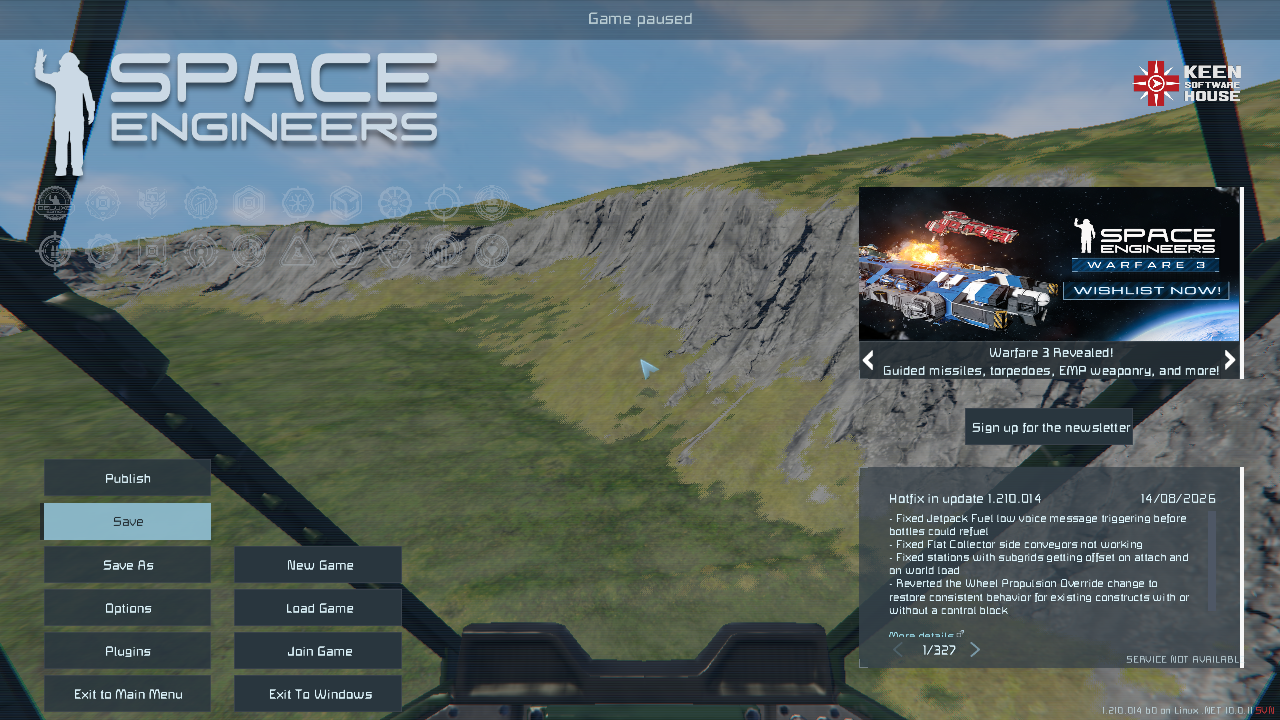
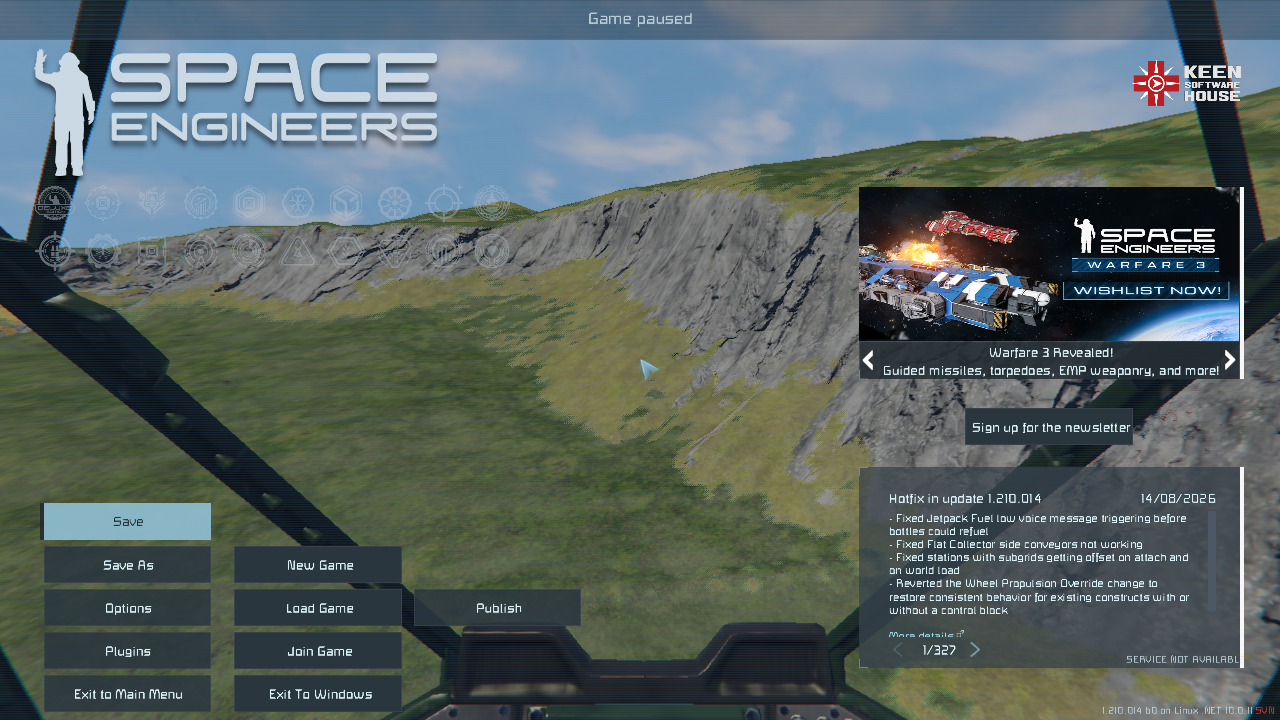
fix: anchor Publish to Load Game in both menus

diff --git a/ClientPlugin/Patches/MainMenuPatch.cs b/ClientPlugin/Patches/MainMenuPatch.cs
@@ -5,69 +5,49 @@ using ClientPlugin.GUI;
 using HarmonyLib;
 using Sandbox.Graphics.GUI;
 using SpaceEngineers.Game.GUI;
+using VRage;
 using VRage.Game;
 using VRageMath;
 
 namespace ClientPlugin.Patches
 {
-    // Adds a Publish button beside Load Game in the main menu and above Save in the in-game menu,
-    // without moving any of the vanilla buttons
     // ReSharper disable once UnusedType.Global
     [HarmonyPatch(typeof(MyGuiScreenMainMenu))]
     public static class MainMenuPatch
     {
-        // Publishing used to be reached through the Load Game screen
+        // Wait until the menu and other plugins' CreateInGameMenu postfixes have added their buttons.
         // ReSharper disable once UnusedMember.Local
         [HarmonyPostfix]
-        [HarmonyPatch("CreateMainMenu")]
-        private static void CreateMainMenuPostfix(MyGuiScreenMainMenu __instance)
+        [HarmonyPatch("RecreateControls")]
+        private static void RecreateControlsPostfix(MyGuiScreenMainMenu __instance)
         {
-            AddPublishButton(__instance, "LoadWorld", above: false);
-        }
-
-        // ReSharper disable once UnusedMember.Local
-        [HarmonyPostfix]
-        [HarmonyPatch("CreateInGameMenu")]
-        private static void CreateInGameMenuPostfix(MyGuiScreenMainMenu __instance)
-        {
-            AddPublishButton(__instance, "SaveWorld", above: true);
-        }
-
-        // The horizontal gap is the same as the vertical one between the menu buttons
-        private static void AddPublishButton(
-            MyGuiScreenMainMenu screen,
-            string buttonName,
-            bool above
-        )
-        {
-            var neighbor = screen
-                .Controls.OfType<MyGuiControlButton>()
-                .FirstOrDefault(button => button.Name == buttonName);
+            var buttons = __instance.Controls.OfType<MyGuiControlButton>().ToArray();
+            var loadGameText = MyTexts.GetString(MyCommonTexts.ScreenMenuButtonLoadGame);
+            var neighbor =
+                buttons.FirstOrDefault(button =>
+                    button.Name == "LoadWorld" || button.Text == loadGameText
+                ) ?? buttons.FirstOrDefault(button => button.Name == "Options");
             if (neighbor == null)
                 return;
 
             var gap = Math.Abs(MyGuiConstants.MENU_BUTTONS_POSITION_DELTA.Y) - neighbor.Size.Y;
-            // The column beside the pause menu is used by In Game World Loading.
-            var offset = above
-                ? -MyGuiConstants.MENU_BUTTONS_POSITION_DELTA
-                : new Vector2(neighbor.Size.X + gap, 0f);
-            screen.Controls.Add(
-                new MyGuiControlButton(
-                    neighbor.Position + offset,
-                    MyGuiControlButtonStyleEnum.StripeLeft,
-                    originAlign: neighbor.OriginAlign,
-                    text: new StringBuilder("Publish"),
-                    toolTip: "Publish local scripts and mods to the Workshop (ScriptDev)",
-                    onButtonClick: _ => MyGuiSandbox.AddScreen(new PublishDialog())
-                )
-                {
-                    Name = "ScriptDevPublish",
-                    BorderEnabled = false,
-                    BorderSize = 0,
-                    BorderHighlightEnabled = false,
-                    BorderColor = Vector4.Zero,
-                }
-            );
+            var publish = new MyGuiControlButton(
+                neighbor.Position,
+                MyGuiControlButtonStyleEnum.StripeLeft,
+                originAlign: neighbor.OriginAlign,
+                text: new StringBuilder("Publish"),
+                toolTip: "Publish local scripts and mods to the Workshop (ScriptDev)",
+                onButtonClick: _ => MyGuiSandbox.AddScreen(new PublishDialog())
+            )
+            {
+                Name = "ScriptDevPublish",
+                BorderEnabled = false,
+                BorderSize = 0,
+                BorderHighlightEnabled = false,
+                BorderColor = Vector4.Zero,
+            };
+            publish.Position += new Vector2((neighbor.Size.X + publish.Size.X) / 2f + gap, 0f);
+            __instance.Controls.Add(publish);
         }
     }
 }

diff --git a/tests/MenuLayout/Program.cs b/tests/MenuLayout/Program.cs
@@ -1,13 +1,16 @@
 using System.Reflection;
+using System.Text;
 using ClientPlugin.Patches;
 using Sandbox.Graphics.GUI;
 using SpaceEngineers.Game.GUI;
+using VRage;
+using VRage.Game;
 using VRageMath;
 
 var failures = 0;
 foreach (var multiplayer in new[] { false, true })
 foreach (var inGameExit in new[] { false, true })
-foreach (var scriptDevFirst in new[] { false, true })
+foreach (var worldLoading in new[] { false, true })
 {
     var menu = new MyGuiScreenMainMenu();
     // Translate the shared X origin; Y includes the 54px fullscreen margin and 0.043 offset.
@@ -25,14 +28,16 @@ foreach (var scriptDevFirst in new[] { false, true })
                 Name = rows[i],
             }
         );
-    var vanilla = menu.Controls.ToDictionary(button => button.Name, button => button.Position);
-    if (scriptDevFirst)
-        Patch(menu, "CreateInGameMenuPostfix");
     // InGameWorldLoading b31a23d: Default buttons are center-bottom aligned.
-    for (var i = 0; i < 3; i++)
+    for (var i = 0; worldLoading && i < 3; i++)
         menu.Controls.Add(
             new MyGuiControlButton(
-                new Vector2(0.3f, 0.873f - (inGameExit ? 0.06f : 0f) + i * 0.06f)
+                new Vector2(0.3f, 0.873f - (inGameExit ? 0.06f : 0f) + i * 0.06f),
+                text: new StringBuilder(
+                    i == 1
+                        ? MyTexts.GetString(MyCommonTexts.ScreenMenuButtonLoadGame)
+                        : $"WorldLoading{i}"
+                )
             )
             {
                 Name = $"WorldLoading{i}",
@@ -42,19 +47,26 @@ foreach (var scriptDevFirst in new[] { false, true })
         menu.Controls.Add(
             new MyGuiControlButton(new Vector2(0.3f, 0.993f)) { Name = "InGameExit" }
         );
-    if (!scriptDevFirst)
-        Patch(menu, "CreateInGameMenuPostfix");
+    var existing = menu.Controls.Select(button => (button, button.Position, button.Size)).ToArray();
+    Patch(menu, "RecreateControlsPostfix");
     var publish = menu.Controls.Single(button => button.Name == "ScriptDevPublish");
     var collisions = menu
         .Controls.Where(button => button != publish && Overlaps(publish, button))
         .Select(button => button.Name)
         .ToArray();
-    var unchanged = vanilla.All(pair =>
-        menu.Controls.Single(button => button.Name == pair.Key).Position.Equals(pair.Value)
+    var anchor = menu.Controls.Single(button =>
+        button.Name == (worldLoading ? "WorldLoading1" : "Options")
     );
-    var ok = collisions.Length == 0 && unchanged && publish.Position.Y - publish.Size.Y >= 0;
+    var gap = publish.Position.X - publish.Size.X / 2 - anchor.Position.X - anchor.Size.X / 2;
+    var anchored =
+        publish.Position.Y == anchor.Position.Y
+        && Math.Abs(gap - (0.06f - anchor.Size.Y)) < 0.0001f;
+    var allUnchanged = existing.All(item =>
+        item.button.Position.Equals(item.Position) && item.button.Size.Equals(item.Size)
+    );
+    var ok = collisions.Length == 0 && allUnchanged && anchored;
     Console.WriteLine(
-        $"{(ok ? "PASS" : "FAIL")} multiplayer={multiplayer}, InGameExit={inGameExit}, ScriptDevFirst={scriptDevFirst}: collisions=[{string.Join(", ", collisions)}], vanilla unchanged={unchanged}"
+        $"{(ok ? "PASS" : "FAIL")} multiplayer={multiplayer}, InGameExit={inGameExit}, WorldLoading={worldLoading}, anchored={anchored}: collisions=[{string.Join(", ", collisions)}], existing buttons unchanged={allUnchanged}"
     );
     if (!ok)
         failures++;
@@ -69,11 +81,15 @@ main.Controls.Add(
         Name = "LoadWorld",
     }
 );
-Patch(main, "CreateMainMenuPostfix");
+var mainLoadPosition = main.Controls[0].Position;
+var mainLoadSize = main.Controls[0].Size;
+Patch(main, "RecreateControlsPostfix");
 var load = main.Controls[0];
 var mainPublish = main.Controls[1];
 var mainOk =
-    mainPublish.Position.Y == load.Position.Y
+    load.Position.Equals(mainLoadPosition)
+    && load.Size.Equals(mainLoadSize)
+    && mainPublish.Position.Y == load.Position.Y
     && mainPublish.Position.X > load.Position.X
     && !Overlaps(mainPublish, load);
 Console.WriteLine($"{(mainOk ? "PASS" : "FAIL")} main menu: Publish beside Load Game");

diff --git a/tests/MenuLayout/GuiStubs.cs b/tests/MenuLayout/GuiStubs.cs
@@ -10,8 +10,6 @@ namespace VRageMath
 
         public static Vector2 operator -(Vector2 a, Vector2 b) => new(a.X - b.X, a.Y - b.Y);
 
-        public static Vector2 operator -(Vector2 v) => new(-v.X, -v.Y);
-
         public static Vector2 operator *(int n, Vector2 v) => new(n * v.X, n * v.Y);
     }
 
@@ -21,8 +19,21 @@ namespace VRageMath
     }
 }
 
+namespace VRage
+{
+    public static class MyTexts
+    {
+        public static string GetString(string id) => "Charger une partie";
+    }
+}
+
 namespace VRage.Game
 {
+    public static class MyCommonTexts
+    {
+        public static string ScreenMenuButtonLoadGame = "LoadGame";
+    }
+
     public enum MyGuiControlButtonStyleEnum
     {
         Default,
@@ -76,6 +87,7 @@ namespace Sandbox.Graphics.GUI
         public Vector2 Position;
         public Vector2 Size;
         public string Name = "";
+        public string Text = "";
         public int OriginAlign;
         public bool BorderEnabled,
             BorderHighlightEnabled;
@@ -92,6 +104,7 @@ namespace Sandbox.Graphics.GUI
         )
         {
             Position = position;
+            Text = text?.ToString();
             Size = new Vector2(
                 (style == MyGuiControlButtonStyleEnum.StripeLeft ? 286f : 281f) / 1600,
                 62f / 1200

diff --git a/tests/MenuLayout/README.md b/tests/MenuLayout/README.md
@@ -1,5 +1,5 @@
 Run `dotnet run --project tests/MenuLayout` with .NET 10. No game installation or NuGet packages are needed.
 
-The check compiles the production menu patch against a minimal GUI surface, using the game's button sizes, spacing, and pause-menu rows. It checks overlap with In Game World Loading (`b31a23d`) in single-player and multiplayer layouts, with and without In Game Exit and in both patch orders. It also checks that vanilla buttons stay put and the main-menu Publish button stays beside Load Game.
+The check compiles the production menu patch against a minimal GUI surface, using the game's button sizes, spacing, and pause-menu rows. It checks overlap with In Game World Loading (`b31a23d`) in single-player and multiplayer layouts, with and without In Game Exit and In Game World Loading. It checks the localized Load Game anchor, the Options fallback without In Game World Loading, and spacing with different button widths. It also checks that vanilla buttons stay put and the main-menu Publish button stays beside Load Game.
 
 These are geometry checks; they do not verify rendering or mouse input in the game.

diff --git a/Docs/Publishing.md b/Docs/Publishing.md
@@ -10,9 +10,9 @@ In the main menu, the **Publish** button is to the right of **Load Game**.
 
 ![Publish button next to Load Game in the main menu](images/main-menu.png)
 
-In a game, press Escape: the button is above **Save**.
+In a game, press Escape: the button is to the right of **Load Game** when In Game World Loading is enabled, or to the right of **Options** otherwise.
 
-![Publish button above Save in the in-game menu](images/ingame-menu.png)
+![Publish button beside Load Game in the in-game menu](images/ingame-menu.png)
 
 ## The list
 

diff --git a/README.md b/README.md
@@ -40,8 +40,9 @@ between scripts, keep unit tests out of the script and minify it for release.
 
 ## Publishing to the Workshop
 
-The **Publish** button is to the right of **Load Game** in the main menu, and above
-**Save** in the in-game menu.
+The **Publish** button is to the right of **Load Game** in the main menu, and beside
+**Load Game** in the in-game menu when In Game World Loading is enabled. Otherwise,
+it appears beside **Options**.
 
 ![The Publish to Workshop dialog](Docs/images/dialog.png)
 
